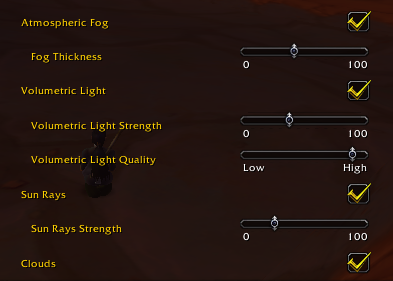
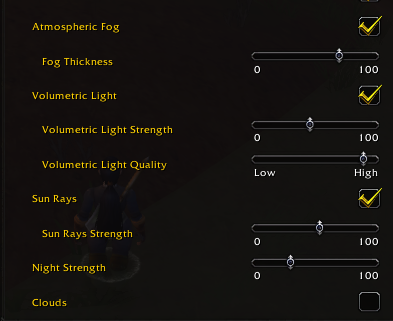
Show Night Strength in the settings screenshot

diff --git a/README.md b/README.md
@@ -35,7 +35,7 @@ All settings are in `comfyfog.ini`. **F11 reloads it in game.**
 The addon in [`addon/ComfyAtmosphere`](addon/ComfyAtmosphere) adds these controls to **Video > Shaders** in the
 game's options:
 
-![The comfyatmosphere controls in Video > Shaders: fog, volumetric light with its strength and quality, sun rays, and clouds.](media/settings-example.png)
+![The comfyatmosphere controls in Video > Shaders: fog, volumetric light with its strength and quality, sun rays, night strength, and clouds.](media/settings-example.png)
 
 | Control | Setting in `comfyfog.ini` |
 | --- | --- |
